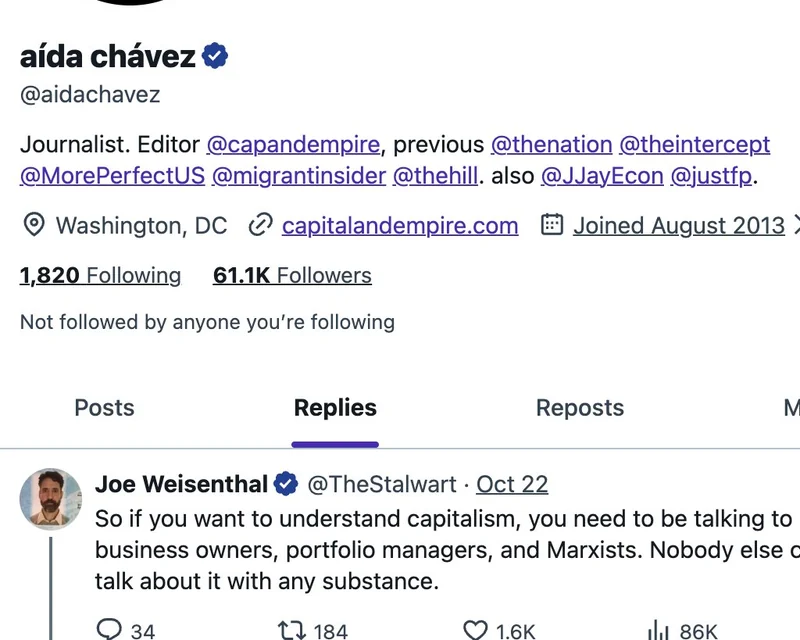
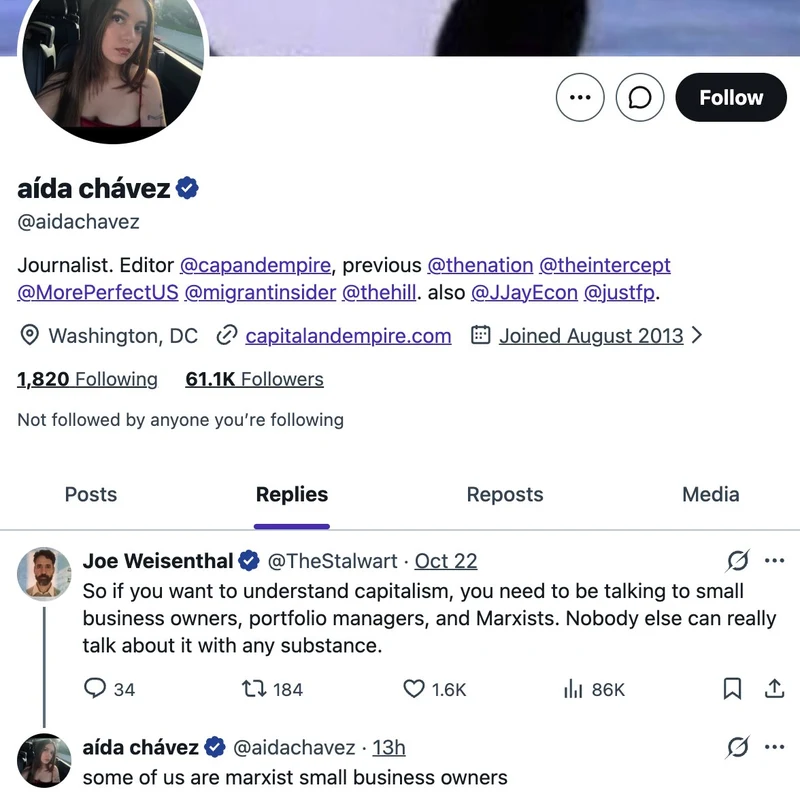
Chávez post: use full X profile screenshot

diff --git a/blog/aida-chavez-brinksman-leak-affidavit-capital-empire/index.html b/blog/aida-chavez-brinksman-leak-affidavit-capital-empire/index.html
@@ -257,7 +257,7 @@
 <h2 id="a-marxist-lens-and-a-dsa-letter">A Marxist Lens and a DSA Letter</h2>
 <p>Capital &amp; Empire’s <a href="https://capitalandempire.com/about">About</a> page calls Chávez the founding editor and says, “Her reporting brings a Marxist and anti-imperialist lens to questions of power and policy.” The outlet <a href="https://capitalandempire.com/about">says</a> its reporting “starts from the premise that U.S. empire is not a force for democracy or stability, but a system built on exploitation, extraction, and violence.”</p>
 <p>On X, Chávez <a href="https://x.com/MarcoPolo501c3/status/2113792982008668359/photo/1">replied</a> to a post in which Joe Weisenthal <a href="https://x.com/TheStalwart/status/2113321407388258684">wrote</a> on October 22, 2026, that to understand capitalism, “you need to be talking to small business owners, portfolio managers, and Marxists.” Her reply <a href="https://x.com/MarcoPolo501c3/status/2113792982008668359/photo/1">read</a>, “some of us are marxist small business owners.” Her X <a href="https://x.com/aidachavez">account</a>, @aidachavez, is now protected.</p>
-<figure class="post-figure" style="text-align:center;margin-left:auto;margin-right:auto"><picture style="display:contents"><source type="image/webp" srcset="/blog/aida-chavez-brinksman-leak-affidavit-capital-empire/assets/aida-chavez-x-profile-reply-800.webp 800w, /blog/aida-chavez-brinksman-leak-affidavit-capital-empire/assets/aida-chavez-x-profile-reply-1200.webp 1200w, /blog/aida-chavez-brinksman-leak-affidavit-capital-empire/assets/aida-chavez-x-profile-reply-1600.webp 1600w" sizes="(min-width: 900px) 760px, 100vw"><img src="/blog/aida-chavez-brinksman-leak-affidavit-capital-empire/assets/aida-chavez-x-profile-reply.png" alt="X profile of aída chávez, @aidachavez, with her bio, and on the Replies tab a post by Joe Weisenthal about Marxists and her reply, some of us are marxist small business owners." width="1024" height="819" loading="lazy" decoding="async"></picture><figcaption>Aída Chávez’s X profile and her reply to a post by Joe Weisenthal. Screenshot: <a href="https://x.com/MarcoPolo501c3/status/2113792982008668359/photo/1">Marco Polo</a>.</figcaption></figure>
+<figure class="post-figure" style="text-align:center;margin-left:auto;margin-right:auto"><picture style="display:contents"><source type="image/webp" srcset="/blog/aida-chavez-brinksman-leak-affidavit-capital-empire/assets/aida-chavez-x-profile-reply-800.webp 800w, /blog/aida-chavez-brinksman-leak-affidavit-capital-empire/assets/aida-chavez-x-profile-reply-1200.webp 1200w, /blog/aida-chavez-brinksman-leak-affidavit-capital-empire/assets/aida-chavez-x-profile-reply-1600.webp 1600w" sizes="(min-width: 900px) 760px, 100vw"><img src="/blog/aida-chavez-brinksman-leak-affidavit-capital-empire/assets/aida-chavez-x-profile-reply.png" alt="X profile of aída chávez, @aidachavez, with her bio, and on the Replies tab a post by Joe Weisenthal about Marxists and her reply, some of us are marxist small business owners." width="1176" height="1170" loading="lazy" decoding="async"></picture><figcaption>Aída Chávez’s X profile and her reply to a post by Joe Weisenthal. Screenshot: <a href="https://x.com/MarcoPolo501c3/status/2113792982008668359/photo/1">Marco Polo</a>.</figcaption></figure>
 <p>Her X bio <a href="https://x.com/aidachavez">lists</a> her as editor of Capital &amp; Empire and previously at The Nation, The Intercept, More Perfect Union, Migrant Insider, and The Hill. The Nation <a href="https://www.thenation.com/article/politics/aida-chavez-nation-dc-correspondent/">named</a> her its D.C. correspondent on March 16, 2021. Its author <a href="https://www.thenation.com/authors/aida-chavez/">page</a> now says she “was previously The Nation’s DC correspondent.” Capital &amp; Empire <a href="https://capitalandempire.com/about">says</a> she was communications director and policy adviser at Just Foreign Policy before founding the outlet.</p>
 <p>On January 25, 2022, while she was The Nation’s correspondent, Chávez <a href="https://international.dsausa.org/usica-letter/">signed</a> an open letter from the Democratic Socialists of America International Committee opposing the U.S. Innovation and Competition Act. Her line <a href="https://international.dsausa.org/usica-letter/">reads</a>, “Aída Chávez – DC Correspondent, The Nation.” She is <a href="https://international.dsausa.org/usica-letter/">listed</a> among more than 400 “Individual signatories in personal capacity.” The letter <a href="https://international.dsausa.org/usica-letter/">says</a> its signers “strongly condemn the USICA and urge members of Congress to oppose the bill.” It <a href="https://international.dsausa.org/usica-letter/">concerns</a> China, not Israel. We could not verify that Chávez is a DSA member and found no public statement by her or listing by Metro DC DSA that identifies her as one.</p>
 <figure class="post-figure" style="text-align:center;margin-left:auto;margin-right:auto"><picture style="display:contents"><source type="image/webp" srcset="/blog/aida-chavez-brinksman-leak-affidavit-capital-empire/assets/usica-letter-signer-800.webp 800w, /blog/aida-chavez-brinksman-leak-affidavit-capital-empire/assets/usica-letter-signer-1200.webp 1200w, /blog/aida-chavez-brinksman-leak-affidavit-capital-empire/assets/usica-letter-signer-1600.webp 1600w" sizes="(min-width: 900px) 760px, 100vw"><img src="/blog/aida-chavez-brinksman-leak-affidavit-capital-empire/assets/usica-letter-signer.png" alt="Heading of the DSA International Committee open letter opposing the US Innovation and Competition Act, dated January 25, 2022, and the signer line Aída Chávez, DC Correspondent, The Nation." width="1440" height="786" loading="lazy" decoding="async"></picture><figcaption>The heading of the DSA International Committee letter and Chávez’s signer line. Screenshot: <a href="https://international.dsausa.org/usica-letter/">DSA International</a>.</figcaption></figure>
